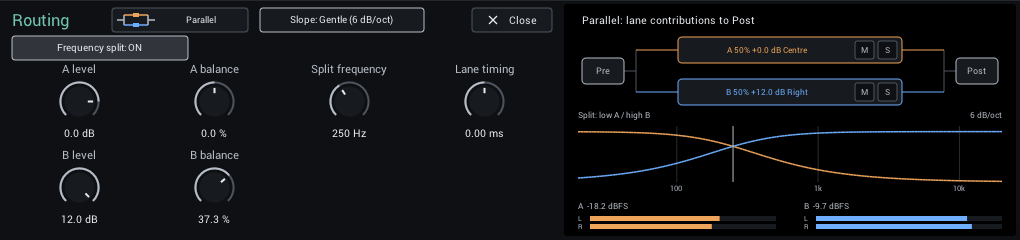
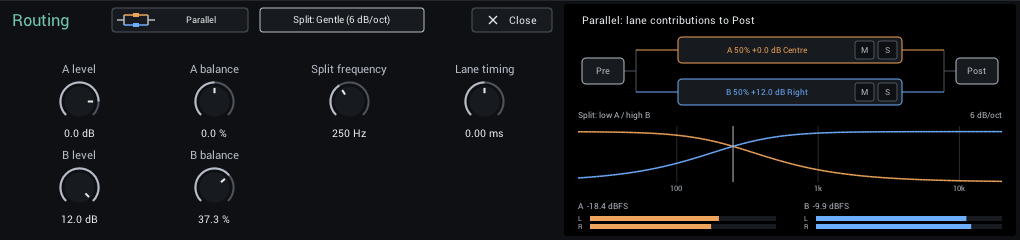
Combine frequency split enable and slope in one routing choice

Changed region(s): [[0.0, 0.1458, 0.1824, 0.2625], [0.2735, 0.0583, 0.3951, 0.1167]]

diff --git a/NeuralAmpModeler/GridPerformanceControls.h b/NeuralAmpModeler/GridPerformanceControls.h
@@ -145,48 +145,36 @@ private:
   IPopupMenu mMenu;
 };
 
-// A saved-state choice in one header row: shows "Label: value" and opens a menu of its
-// values. Used for the split's slope, which is never host automation (see StateOnly).
-class PerformanceChoice : public IControl
+// One presentation choice over the released split-enable and slope parameters.
+class FrequencySplitChoice : public IControl
 {
 public:
-  PerformanceChoice(const IRECT& r, int parameter, const char* label) : IControl(r, parameter), mLabel(label) {}
+  explicit FrequencySplitChoice(const IRECT& r)
+  : IControl(r, {PerformanceParam(grid_performance::Crossover), PerformanceParam(grid_performance::CrossoverSlope)})
+  { SetTooltip("Click to cycle: Off, Gentle (6 dB/oct), Steep (24 dB/oct). The split sends lows to A and highs to B."); }
   void Draw(IGraphics& g) override
   {
-    WDL_String value;
-    GetParam()->GetDisplay(GetValue(), true, value);
+    const char* value = !GetParam(0)->Bool() ? "Split: Off"
+                       : GetParam(1)->Int() == 0 ? "Split: Gentle (6 dB/oct)" : "Split: Steep (24 dB/oct)";
     g.FillRoundRect(surface, mRECT, 3.f);
     g.DrawRoundRect(mMouseIsOver ? muted : border, mRECT, 3.f);
-    FittedText(g, Text(13.f, text, EAlign::Center), mLabel + ": " + value.Get(), mRECT.GetHPadded(-8.f));
+    FittedText(g, Text(13.f, text, EAlign::Center), value, mRECT.GetHPadded(-8.f));
   }
   void OnMouseDown(float, float, const IMouseMod& mod) override
   {
+    using namespace grid_performance;
     if (!mod.L) return;
-    if (GetParam()->GetMax() - GetParam()->GetMin() == 1.)
+    if (!GetParam(0)->Bool())
     {
-      PLUG()->SetParameterFromUI(GetParamIdx(), GetParam()->Int() == GetParam()->GetMin() ? GetParam()->GetMax() : GetParam()->GetMin());
-      return;
+      PLUG()->SetParameterFromUI(PerformanceParam(CrossoverSlope), SplitSlopeFirstOrder);
+      PLUG()->SetParameterFromUI(PerformanceParam(Crossover), 1.);
     }
-    mMenu.Clear();
-    const auto* param = GetParam();
-    for (int value = static_cast<int>(param->GetMin()); value <= static_cast<int>(param->GetMax()); ++value)
-    {
-      WDL_String item;
-      param->GetDisplay(value, false, item);
-      mMenu.AddItem(new IPopupMenu::Item(item.Get(), param->Int() == value ? IPopupMenu::Item::kChecked : 0, value));
-    }
-    GetUI()->CreatePopupMenu(*this, mMenu, mRECT);
-  }
-  void OnPopupMenuSelection(IPopupMenu* menu, int) override
-  {
-    if (const auto* item = menu ? menu->GetChosenItem() : nullptr)
-      PLUG()->SetParameterFromUI(GetParamIdx(), item->GetTag());
+    else if (GetParam(1)->Int() == SplitSlopeFirstOrder)
+      PLUG()->SetParameterFromUI(PerformanceParam(CrossoverSlope), SplitSlopeLinkwitzRiley);
+    else
+      PLUG()->SetParameterFromUI(PerformanceParam(Crossover), 0.); // Retain the saved slope while off.
     SetDirty(false);
   }
-
-private:
-  std::string mLabel;
-  IPopupMenu mMenu;
 };
 
 // Matrix row cells ------------------------------------------------------------
@@ -943,13 +931,8 @@ public:
     knob(2, CrossoverFrequency, "Frequency dividing the low A branch and high B branch when Frequency split is on.");
     knob(3, LaneTiming, "Positive values delay A, negative values delay B, up to 20 ms. Use it to audition capture "
                         "timing; it cannot correct every phase difference and never advances audio.");
-    AddChildControl(new Toggle(IRECT(grid_layout::parameterLeft, grid_layout::descriptionTop, grid_layout::parameterLeft + 176, grid_layout::descriptionTop + 24), PerformanceParam(Crossover), "Frequency split"))
-      ->SetTooltip("Send lows to lane A and highs to lane B. With A / B centred, empty lanes rebuild the original signal.");
-    AddChildControl(new PerformanceChoice(IRECT(grid_layout::parameterRight - 292, grid_layout::moduleHeaderTop,
-                                                grid_layout::parameterRight - 128, grid_layout::moduleHeaderBottom),
-                                         PerformanceParam(CrossoverSlope), "Slope"))
-      ->SetTooltip("Gentle is the released 6 dB/octave split. Steep is a 24 dB/octave Linkwitz-Riley split: the "
-                   "driven lane gets far less low end, at the cost of an allpass phase shift around the split.");
+    AddChildControl(new FrequencySplitChoice(IRECT(grid_layout::parameterRight - 292, grid_layout::moduleHeaderTop,
+                                                   grid_layout::parameterRight - 128, grid_layout::moduleHeaderBottom)));
     AddChildControl(new FlowMode(IRECT(grid_layout::parameterLeft + 100, grid_layout::moduleHeaderTop,
                                       grid_layout::parameterRight - 304, grid_layout::moduleHeaderBottom)));
     AddChildControl(new Button(IRECT(grid_layout::parameterRight - 80, grid_layout::moduleHeaderTop, grid_layout::parameterRight, grid_layout::moduleHeaderBottom), [](IControl* caller) {

diff --git a/tests/clap_smoke.cpp b/tests/clap_smoke.cpp
@@ -1335,12 +1335,21 @@ int main(int argc, char** argv)
     assert(save().config()["Lane B Level"] != 0. && save().config()["Lane A Level"] == 0.);
     assert(save().config()["Lane B Balance"] != 0. && save().config()["Lane A Balance"] == 0.);
     checkLaneButtons();
-    click(grid_layout::parameterLeft + 88, grid_layout::optionsY);
-    assert(save().config()["Frequency Split"] == 1.);
-    click(grid_layout::parameterRight - 210, grid_layout::moduleButtonY);
-    assert(save().config()["Split Slope"] == 1.);
-    click(grid_layout::parameterRight - 210, grid_layout::moduleButtonY);
-    assert(save().config()["Split Slope"] == 0.);
+    const auto splitChoice = [&] { click(grid_layout::parameterRight - 210, grid_layout::moduleButtonY); };
+    splitChoice();
+    assert(save().config()["Frequency Split"] == 1. && save().config()["Split Slope"] == 0.);
+    splitChoice();
+    assert(save().config()["Frequency Split"] == 1. && save().config()["Split Slope"] == 1.);
+    splitChoice();
+    assert(save().config()["Frequency Split"] == 0. && save().config()["Split Slope"] == 1.);
+    auto storedOff = save().config();
+    const auto expectedOff = storedOff;
+    click(grid_layout::parameterRight - 40, grid_layout::moduleButtonY);
+    load(storedOff); // Off still preserves a previously stored Steep slope.
+    assert(save().config() == expectedOff);
+    click(grid_layout::width - 36, 328);
+    splitChoice();
+    assert(save().config()["Frequency Split"] == 1. && save().config()["Split Slope"] == 0.);
     capture("routing-split.bmp");
     POINT originalCursor{}; GetCursorPos(&originalCursor);
     const auto hover = [&](int x, int y) {
@@ -3266,19 +3275,16 @@ int main(int argc, char** argv)
     assert(state["Mod 1 Source"] == grid_performance::SourceMacro1 && state["Mod 1 Slot"] == grid_performance::gridSlot);
     assert(state["Mod 1 Destination"] == grid_performance::GridLaneA && state["Mod 1 Depth"] == 25.);
   }
-  // The routing page's saved Split Slope choice: steep, then back to the released gentle split.
+  // One UI choice over two stable parameters: Off -> Gentle -> Steep -> Off.
   {
-    click(grid_layout::parameterLeft + 88, grid_layout::optionsY);
-    assert(save().config()["Frequency Split"] == 1.);
     const int slopeX = grid_layout::parameterRight - 210, slopeY = grid_layout::moduleButtonY;
-    assert(save().config()["Split Slope"] == 0.);
+    assert(save().config()["Frequency Split"] == 0.);
     click(slopeX, slopeY);
-    pumpFor(30);
-    assert(save().config()["Split Slope"] == 1.);
+    assert(save().config()["Frequency Split"] == 1. && save().config()["Split Slope"] == 0.);
     click(slopeX, slopeY);
-    pumpFor(30);
-    assert(save().config()["Split Slope"] == 0.);
-    click(grid_layout::parameterLeft + 88, grid_layout::optionsY);
+    assert(save().config()["Frequency Split"] == 1. && save().config()["Split Slope"] == 1.);
+    click(slopeX, slopeY);
+    assert(save().config()["Frequency Split"] == 0. && save().config()["Split Slope"] == 1.);
   }
   keyAtEditor(VK_ESCAPE); // Closes the routing panel.
   // Wah's Auto button creates the envelope row that makes it an auto-wah, and only exists on Wah.

diff --git a/docs/grid.md b/docs/grid.md
@@ -58,8 +58,8 @@ Click the flow icon below the A/B knob for Routing. Choose Sequential or Paralle
 - **M / S buttons:** mute or solo each parallel lane directly on its branch. Clicking S unmutes that lane and clears the other solo; clicking M clears that lane's solo. Click the active button again to release it. Solo keeps the current A/B blend level. Previously saved mute/solo combinations retain their sound until edited. Muting or blending away a lane does not suspend its processors; bypass unused modules to save CPU.
 - **Routing view:** the signal path stays visible in both modes. In Parallel it shows blend percentages, lane levels and stereo positions; Frequency split adds smaller crossover curves below the branches. Bottom L/R peak meters show each parallel lane's contribution after level, balance and blend, before Post. Empty lanes are measured too. In Sequential the meters show the outputs after A and B instead.
 - **Lane timing:** delay one lane by up to 20 ms to explore timing and phase between captures. Positive values delay A; negative values delay B.
-- **Frequency split:** send the lows to A and the highs to B, divided at **Crossover**. With both lanes empty and A/B centered, the original sound is reconstructed. This is a gentle split by default, not a steep multiband crossover.
-- **Slope:** click to switch between *Gentle*, the released 6 dB/octave split, and *Steep*, a 24 dB/octave Linkwitz-Riley split, so a driven lane B receives much less low end. Both slopes keep a flat overall level with empty lanes, but the steep split's phase turns 360° around the crossover, so a half-blended split is not phase-identical to the input. Switching slopes crossfades over 5 ms. The gentler split stays the default, and existing rigs keep it.
+- **Split:** one button cycles **Off → Gentle (6 dB/oct) → Steep (24 dB/oct) → Off**. Off feeds both lanes the full signal. Gentle and Steep send lows to A and highs to B, divided at **Split frequency**. Turning the split off retains its saved slope; the next click starts at Gentle. Existing presets and host automation keep their split and slope settings.
+- **Split modes:** *Gentle* is the released first-order split; *Steep* is a 24 dB/octave Linkwitz-Riley split, so a driven lane B receives much less low end. Both slopes keep a flat overall level with empty lanes at default lane levels and centred A/B, but the steep split's phase turns 360° around the crossover, so a half-blended split is not phase-identical to the input. Switching slopes crossfades over 5 ms.
 
 Rig-wide **Trails** and **Keep dry level** live in [Settings](ui.md#rig-behaviour). They are saved with each rig and work in both routing modes.
 

diff --git a/CHANGELOG.md b/CHANGELOG.md
@@ -12,7 +12,7 @@ All notable user-facing changes to NAM Grid are documented here, newest first. S
 - Fix a low bass burst when switching the lane split from Gentle back to Steep after silence. The inactive steep filters now discard their old audio once the switch fade completes.
 
 - **Auto-wah:** a new **Auto** button in the Wah module header assigns Env 1 to Position at +25%, so playing opens the wah without setting up a modulation row by hand. Adjust the envelope on the Modulation page, or remove the assignment there.
-- **Steep frequency split:** the Routing page's **Slope** choice adds a 24 dB/octave Linkwitz-Riley lane split next to the released 6 dB/octave one, so a driven lane B receives far less low end. Existing rigs keep the gentle split, which sounds exactly as before. The steep split keeps a flat overall level, but its phase turns a full circle around the crossover, so it combines differently with a capture in the other lane; switching slopes crossfades.
+- **Frequency split:** one Routing button cycles Off, Gentle (6 dB/oct) and Steep (24 dB/oct), combining enable and slope. The Linkwitz-Riley steep split sends far less low end to a driven lane B. Existing presets and automation keep their settings; turning off preserves the stored slope. The steep split keeps a flat overall level, but its phase turns a full circle around the crossover, so it combines differently with a capture in the other lane; switching slopes crossfades.
 - **Frequency Shifter tails fade:** at high Feedback the shifter could ring for a very long time, and downward shifts piled up into a low drone and a DC offset. Repeats now always decay, and they lose their lowest frequencies, so 100% Feedback still sustains long enough to build shifting walls of echoes but fades away instead of sticking. This changes how existing rigs sound at high Feedback; the control range and its meaning are unchanged.
 
 - Saved rigs and DAW projects now store scenes more compactly. Scene recall stays fixed to the values you stored, and older presets and projects still load.
